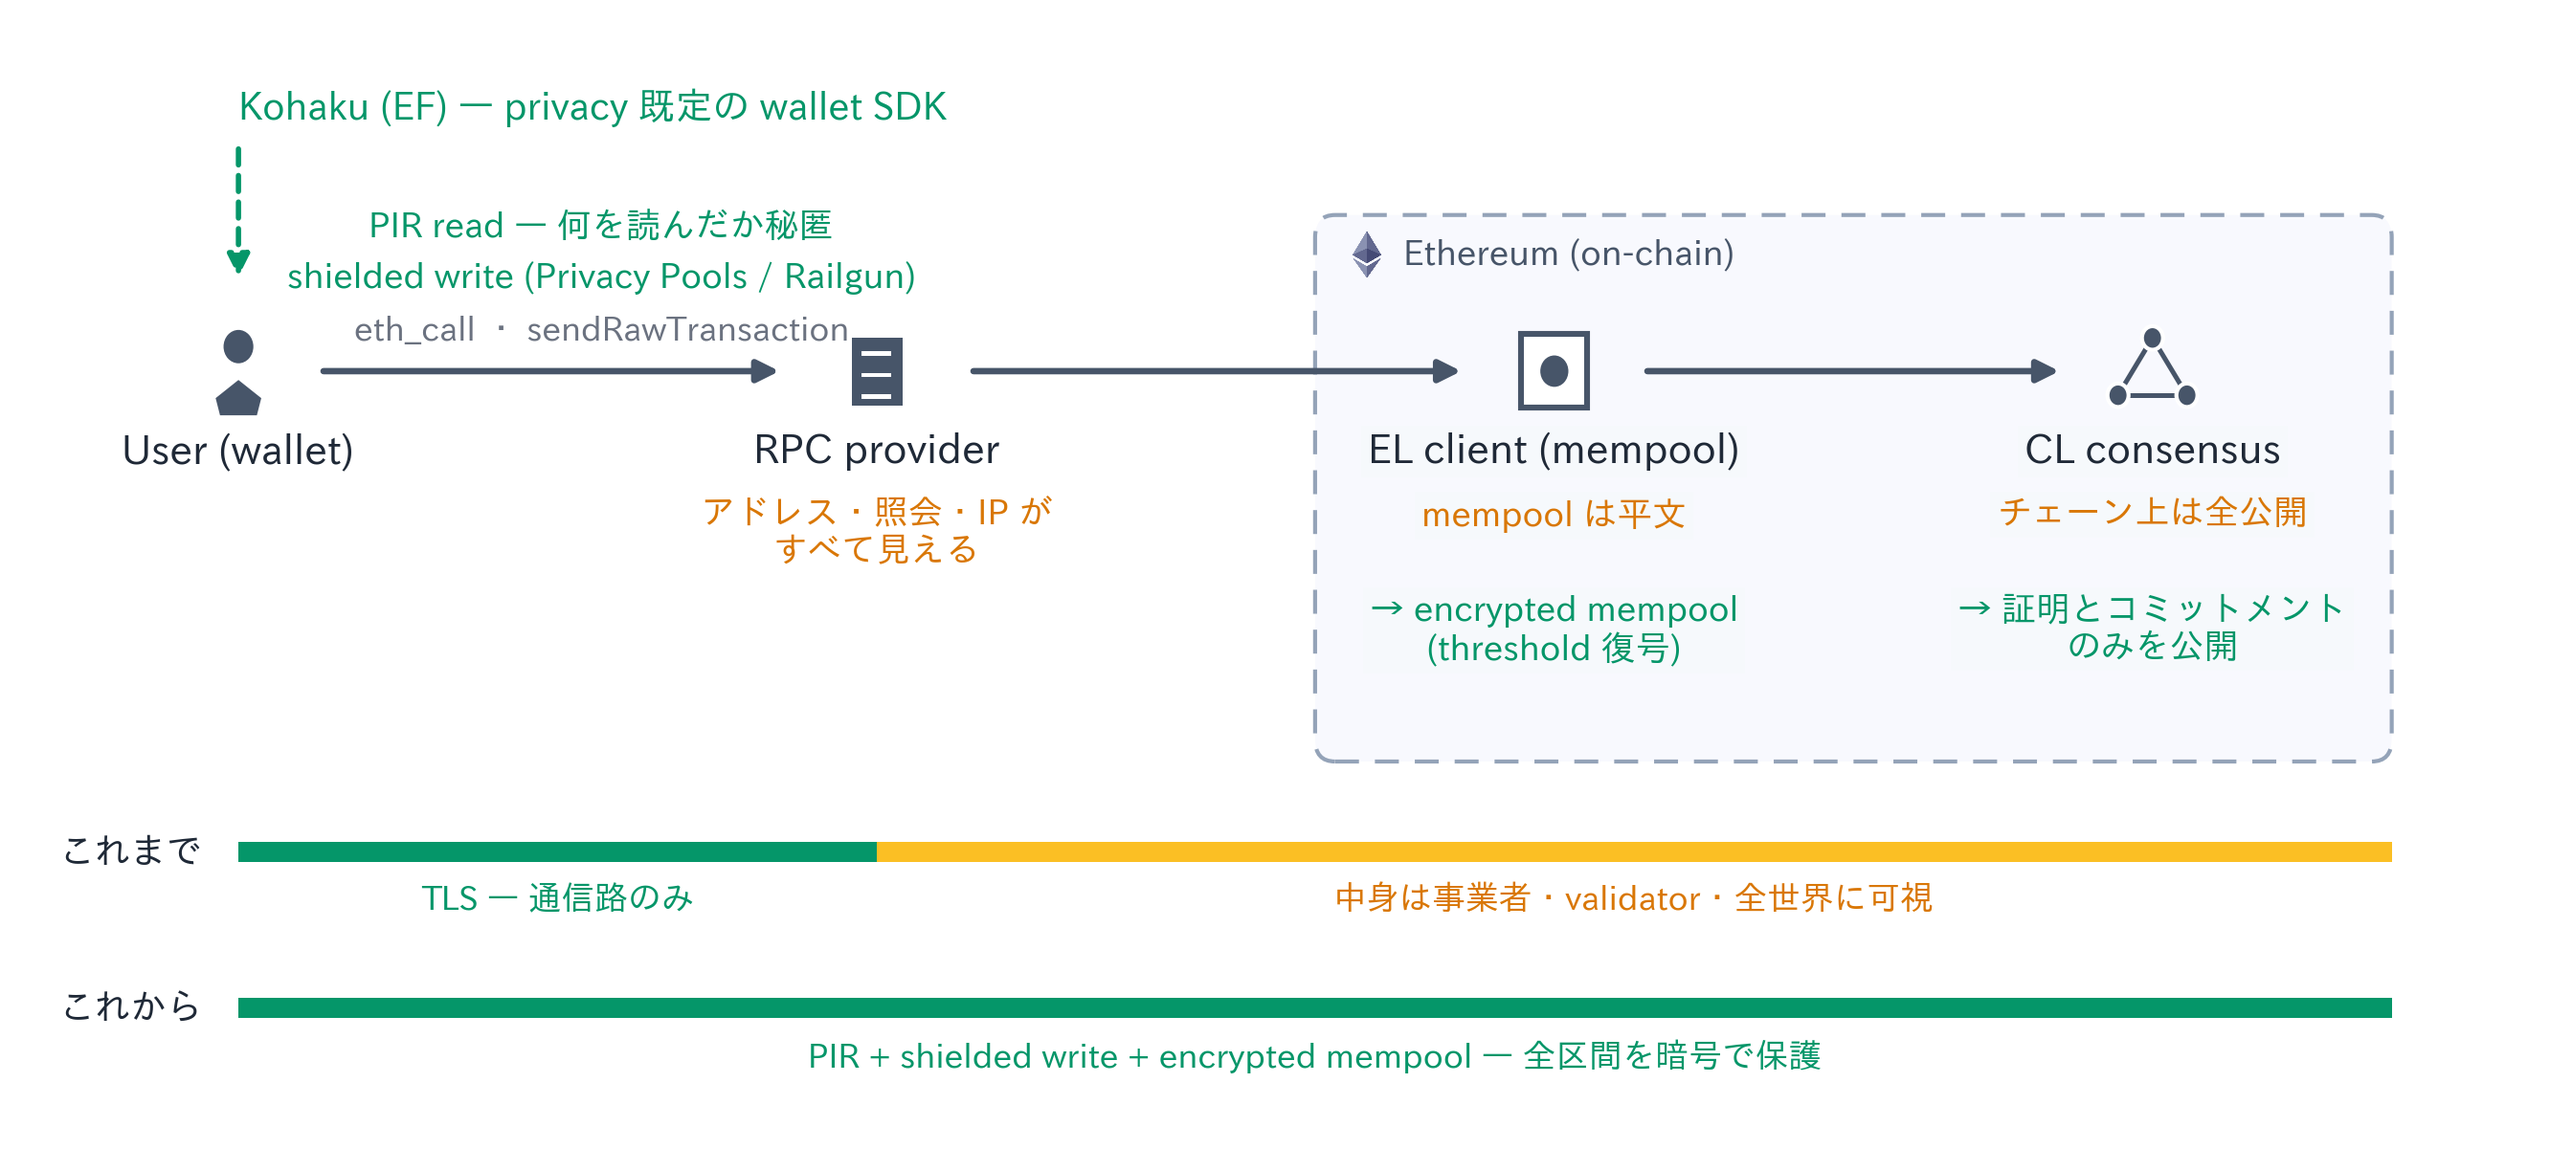
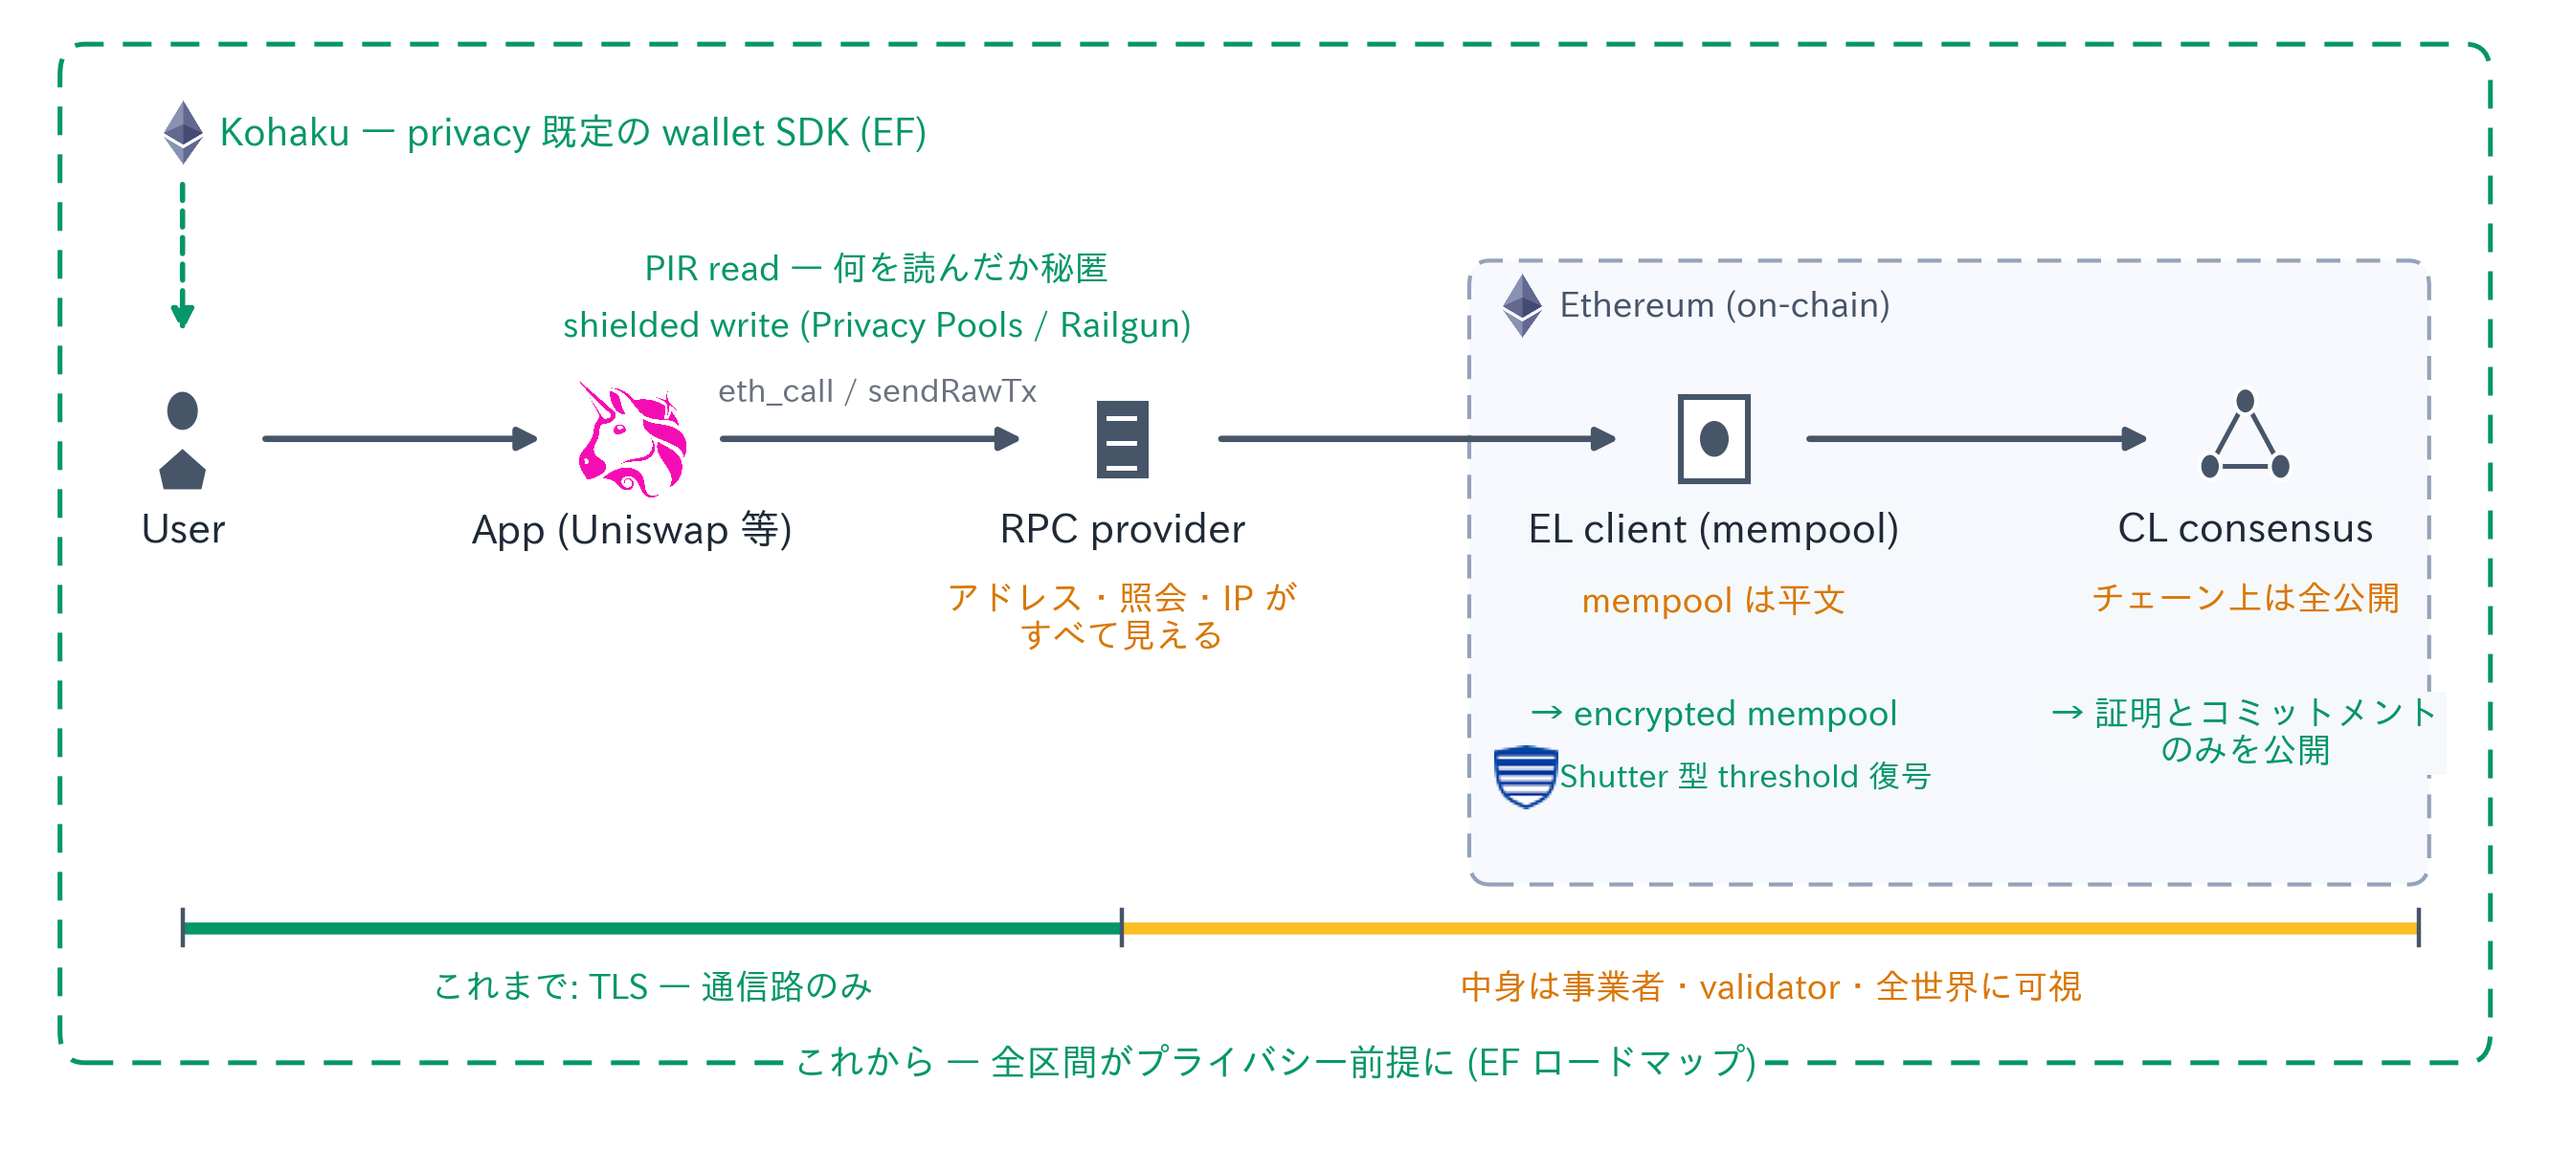
p9 (SL10d): App (Uniswap) アクター追加、バーを図内スコープ線 + 全体境界に置換、Kohaku (EF)・Shutter ロゴを配置

diff --git a/figures/eth_privacy.py b/figures/eth_privacy.py
@@ -5,9 +5,11 @@
 #
 # 設計語彙は .claude/skills/arch-diagram/SKILL.md + figures/kelp_arch.py に従う:
 #   枠なし (アイコン+ラベルのみ) / 直角配線・塗り矢印 / 境界バンド = on-chain 領域 /
-#   amber = 現状の露出 (可視) / green = これから足す防御 (Kohaku・PIR・shielded write・
-#   encrypted mempool) — p4→p6 と同じ「基底 + 差分」の読み方。
-#   下部の 2 本のバー = 保護範囲 (これまで: TLS 区間のみ / これから: 全区間)。
+#   amber = 現状の露出 (可視) / green = これから足す防御。
+#   保護範囲はバーではなく図内で直接可視化する:
+#     - 図中のスコープ線: green (TLS 区間 = これまで) → amber (可視のまま) の 1 本線
+#     - 図全体を囲う green 破線境界 = これから (全区間がプライバシー前提)
+#   actor: User → App (Uniswap 等) → RPC → EL → CL。Kohaku / Shutter はロゴ付き。
 
 import matplotlib
 matplotlib.use("Agg")
@@ -31,7 +33,6 @@ SURFACE = "#ffffff"
 GRAY = "#475569"
 GHOST_EDGE = "#94a3b8"
 AMBER = "#d97706"
-AMBER_SOFT = "#fbbf24"
 GREEN = "#059669"
 TEXT_PRIMARY = "#1f2937"
 TEXT_MUTED = "#6b7280"
@@ -39,8 +40,8 @@ TEXT_MUTED = "#6b7280"
 fig, ax = plt.subplots(figsize=(13.4, 6.2), dpi=200)
 fig.patch.set_facecolor(SURFACE)
 ax.set_facecolor(SURFACE)
-ax.set_xlim(0, 1260)
-ax.set_ylim(70, 578)
+ax.set_xlim(20, 1250)
+ax.set_ylim(140, 585)
 ax.axis("off")
 
 # ---------------------------------------------------------------- icon library
@@ -62,7 +63,6 @@ def icon_mini_server(cx, cy, s=22, color=GRAY):
 
 
 def icon_block(cx, cy, s=22, color=GRAY):
-    """EL client (実行エンジン): ブロック型。"""
     w = s * 1.5
     ax.add_patch(Rectangle((cx - w / 2, cy - w / 2), w, w, facecolor="white",
                             edgecolor=color, linewidth=2.2, zorder=8))
@@ -70,7 +70,6 @@ def icon_block(cx, cy, s=22, color=GRAY):
 
 
 def icon_network(cx, cy, s=22, color=GRAY):
-    """CL consensus (ノード網): 三角メッシュ。"""
     pts = [(cx, cy + s * 0.62), (cx - s * 0.72, cy - s * 0.45), (cx + s * 0.72, cy - s * 0.45)]
     for i in range(3):
         for j in range(i + 1, 3):
@@ -81,14 +80,14 @@ def icon_network(cx, cy, s=22, color=GRAY):
                             linewidth=1.5, zorder=8))
 
 
-def add_logo(path, xy, zoom, box_alignment=(0.5, 0.5)):
+def add_logo(path, xy, target_h=30.0, box_alignment=(0.5, 0.5)):
     img = mpimg.imread(path)
-    imagebox = OffsetImage(img, zoom=zoom)
-    ab = AnnotationBbox(imagebox, xy, frameon=False, zorder=9, box_alignment=box_alignment)
+    zoom = target_h / img.shape[0]
+    ab = AnnotationBbox(OffsetImage(img, zoom=zoom), xy, frameon=False, zorder=9,
+                        box_alignment=box_alignment)
     ax.add_artist(ab)
 
 
-# ---------------------------------------------------------------- primitives
 def entity(cx, cy, icon_fn, label, fontsize=15, gap=36, on_line=False, on_line_fc="white"):
     icon_fn(cx, cy)
     bbox = dict(facecolor=on_line_fc, edgecolor="none", pad=2.5) if on_line else None
@@ -103,27 +102,39 @@ def straight(p1, p2, color=GRAY, lw=2.4, ls="solid", z=4):
 
 
 # ===================================================================== 座標定数
-MAIN_Y = 420          # メインフロー行 (User → RPC → EL → CL)
-X_USER, X_RPC, X_EL, X_CL = 110, 430, 770, 1070
-BAND_FC = "#f6f9fc"   # on-chain バンド (#6366f1 α.04 相当) の合成地色
+MAIN_Y = 420
+X_USER, X_APP, X_RPC, X_EL, X_CL = 100, 320, 560, 850, 1110
+BAND_FC = "#f6f9fc"
+
+# ===================================================================== これから境界 (図全体)
+ax.add_patch(FancyBboxPatch((40, 175), 1190, 400,
+                             boxstyle="round,pad=0,rounding_size=12",
+                             linewidth=1.8, edgecolor=GREEN,
+                             facecolor="none", linestyle=(0, (6, 4)), zorder=1))
+ax.text(635, 175, "これから — 全区間がプライバシー前提に (EF ロードマップ)", ha="center",
+        va="center", fontsize=13.5, fontweight="bold", color=GREEN, zorder=12,
+        bbox=dict(facecolor="white", edgecolor="none", pad=3))
 
 # ===================================================================== on-chain バンド
-ax.add_patch(FancyBboxPatch((650, 245), 540, 245,
+ax.add_patch(FancyBboxPatch((730, 245), 470, 245,
                              boxstyle="round,pad=0,rounding_size=10",
                              linewidth=1.5, edgecolor=GHOST_EDGE,
                              facecolor="#6366f1", alpha=0.04, linestyle=(0, (6, 4)),
                              zorder=1))
-ax.add_patch(FancyBboxPatch((650, 245), 540, 245,
+ax.add_patch(FancyBboxPatch((730, 245), 470, 245,
                              boxstyle="round,pad=0,rounding_size=10",
                              linewidth=1.5, edgecolor=GHOST_EDGE,
                              facecolor="none", linestyle=(0, (6, 4)), zorder=1))
-add_logo(f"{LOGO_DIR}/ethereum.png", (676, 472), zoom=0.075)
-ax.text(694, 472, "Ethereum (on-chain)", ha="left", va="center", fontsize=13,
+add_logo(f"{LOGO_DIR}/ethereum.png", (756, 472), target_h=26)
+ax.text(774, 472, "Ethereum (on-chain)", ha="left", va="center", fontsize=13,
         fontweight="bold", color=GRAY, zorder=2)
 
 # ===================================================================== メインフロー
-entity(X_USER, MAIN_Y, lambda cx, cy: icon_person(cx, cy, s=22), "User (wallet)")
-straight((150, MAIN_Y), (X_RPC - 46, MAIN_Y), lw=2.4)
+entity(X_USER, MAIN_Y, lambda cx, cy: icon_person(cx, cy, s=22), "User")
+straight((138, MAIN_Y), (X_APP - 42, MAIN_Y), lw=2.4)
+entity(X_APP, MAIN_Y, lambda cx, cy: add_logo(f"{LOGO_DIR}/uniswap.png", (cx, cy), target_h=44),
+       "App (Uniswap 等)")
+straight((X_APP + 42, MAIN_Y), (X_RPC - 46, MAIN_Y), lw=2.4)
 entity(X_RPC, MAIN_Y, lambda cx, cy: icon_mini_server(cx, cy, s=22), "RPC provider")
 straight((X_RPC + 46, MAIN_Y), (X_EL - 44, MAIN_Y), lw=2.4)
 entity(X_EL, MAIN_Y, lambda cx, cy: icon_block(cx, cy, s=22), "EL client (mempool)",
@@ -132,12 +143,12 @@ straight((X_EL + 44, MAIN_Y), (X_CL - 44, MAIN_Y), lw=2.4)
 entity(X_CL, MAIN_Y, lambda cx, cy: icon_network(cx, cy, s=24), "CL consensus",
        on_line=True, on_line_fc=BAND_FC)
 
-# 配線ラベル: 線の上に 3 段 (gray = 何が流れるか / green = これから足す防御)
-ax.text(292, MAIN_Y + 18, "eth_call ・ sendRawTransaction", ha="center", va="center",
-        fontsize=12.5, fontweight="bold", color=TEXT_MUTED, zorder=6)
-ax.text(292, MAIN_Y + 42, "shielded write (Privacy Pools / Railgun)", ha="center", va="center",
+# 配線ラベル (App→RPC): gray = 何が流れるか / green = これから足す防御
+ax.text(440, MAIN_Y + 18, "eth_call / sendRawTx", ha="center", va="center",
+        fontsize=12, fontweight="bold", color=TEXT_MUTED, zorder=6)
+ax.text(440, MAIN_Y + 44, "shielded write (Privacy Pools / Railgun)", ha="center", va="center",
         fontsize=13, fontweight="bold", color=GREEN, zorder=6)
-ax.text(292, MAIN_Y + 64, "PIR read — 何を読んだか秘匿", ha="center", va="center",
+ax.text(440, MAIN_Y + 66, "PIR read — 何を読んだか秘匿", ha="center", va="center",
         fontsize=13, fontweight="bold", color=GREEN, zorder=6)
 
 # ===================================================================== amber = 現状の露出
@@ -150,41 +161,38 @@ ax.text(X_CL, MAIN_Y - 57, "チェーン上は全公開", ha="center", va="top",
         fontsize=13, fontweight="bold", color=AMBER, zorder=6, bbox=dict(
             facecolor=BAND_FC, edgecolor="none", pad=2.5))
 
-# ===================================================================== green = 足す防御 (差分)
-# Kohaku callout — kelp の setConfig callout と同じ形式 (プレーン 1 行 + 垂直 leader)
-CALLOUT_Y = 538
-ax.text(X_USER, CALLOUT_Y, "Kohaku (EF) — privacy 既定の wallet SDK", ha="left", va="center",
+# ===================================================================== green = 足す防御
+# Kohaku callout (EF プロジェクトなので EF/Ethereum マーク付き)
+CALLOUT_Y = 540
+add_logo(f"{LOGO_DIR}/ethereum.png", (100, CALLOUT_Y), target_h=26)
+ax.text(118, CALLOUT_Y, "Kohaku — privacy 既定の wallet SDK (EF)", ha="left", va="center",
         fontsize=14, fontweight="bold", color=GREEN, zorder=11)
-straight((X_USER, CALLOUT_Y - 16), (X_USER, MAIN_Y + 40), color=GREEN, lw=2.0,
+straight((100, CALLOUT_Y - 18), (100, MAIN_Y + 40), color=GREEN, lw=2.0,
          ls=(0, (3, 2)), z=5)
 
-ax.text(X_EL, MAIN_Y - 100, "→ encrypted mempool\n(threshold 復号)", ha="center", va="top",
+ax.text(X_EL, MAIN_Y - 102, "→ encrypted mempool", ha="center", va="top",
         fontsize=13, fontweight="bold", color=GREEN, zorder=6, bbox=dict(
             facecolor=BAND_FC, edgecolor="none", pad=2.5))
-ax.text(X_CL, MAIN_Y - 100, "→ 証明とコミットメント\nのみを公開", ha="center", va="top",
+add_logo(f"{LOGO_DIR}/shutter.png", (X_EL - 92, MAIN_Y - 133), target_h=24)
+ax.text(X_EL - 76, MAIN_Y - 133, "Shutter 型 threshold 復号", ha="left", va="center",
+        fontsize=12, fontweight="bold", color=GREEN, zorder=6, bbox=dict(
+            facecolor=BAND_FC, edgecolor="none", pad=2))
+ax.text(X_CL, MAIN_Y - 102, "→ 証明とコミットメント\nのみを公開", ha="center", va="top",
         fontsize=13, fontweight="bold", color=GREEN, zorder=6, bbox=dict(
             facecolor=BAND_FC, edgecolor="none", pad=2.5))
 
-# ===================================================================== 保護範囲バー (下部)
-BAR_X0, BAR_X1 = X_USER, 1190
-
-def coverage_bar(y, row_label, segments, labels):
-    ax.text(BAR_X0 - 18, y + 4, row_label, ha="right", va="center", fontsize=13.5,
-            fontweight="bold", color=TEXT_PRIMARY, zorder=6)
-    for x1, x2, c in segments:
-        ax.add_patch(Rectangle((x1, y), x2 - x1, 9, facecolor=c, edgecolor="none", zorder=5))
-    for x, text, c in labels:
-        ax.text(x, y - 17, text, ha="center", va="center", fontsize=12.5,
-                fontweight="bold", color=c, zorder=6)
-
-coverage_bar(200, "これまで",
-             [(BAR_X0, X_RPC, GREEN), (X_RPC, BAR_X1, AMBER_SOFT)],
-             [((BAR_X0 + X_RPC) / 2, "TLS — 通信路のみ", GREEN),
-              ((X_RPC + BAR_X1) / 2, "中身は事業者・validator・全世界に可視", AMBER)])
-
-coverage_bar(130, "これから",
-             [(BAR_X0, BAR_X1, GREEN)],
-             [((BAR_X0 + BAR_X1) / 2, "PIR + shielded write + encrypted mempool — 全区間を暗号で保護", GREEN)])
+# ===================================================================== スコープ線 (これまで)
+SCOPE_Y = 228
+ax.plot([X_USER, X_RPC], [SCOPE_Y, SCOPE_Y], color=GREEN, linewidth=4.5,
+        solid_capstyle="butt", zorder=5)
+ax.plot([X_RPC, 1195], [SCOPE_Y, SCOPE_Y], color="#fbbf24", linewidth=4.5,
+        solid_capstyle="butt", zorder=5)
+for x in (X_USER, X_RPC, 1195):
+    ax.plot([x, x], [SCOPE_Y - 7, SCOPE_Y + 7], color=GRAY, linewidth=1.6, zorder=6)
+ax.text((X_USER + X_RPC) / 2, SCOPE_Y - 24, "これまで: TLS — 通信路のみ", ha="center",
+        va="center", fontsize=13, fontweight="bold", color=GREEN, zorder=6)
+ax.text((X_RPC + 1195) / 2, SCOPE_Y - 24, "中身は事業者・validator・全世界に可視", ha="center",
+        va="center", fontsize=13, fontweight="bold", color=AMBER, zorder=6)
 
 plt.tight_layout(pad=1.0)
 plt.savefig(OUT, facecolor=SURFACE, bbox_inches="tight")

diff --git a/slides/SL10d.md b/slides/SL10d.md
@@ -16,19 +16,20 @@ Sources: Buterin "A maximally simple L1 privacy roadmap" ethereum-magicians (Apr
 Speaker Notes:
 
 【概要 (需要 ③)】
-Ethereum 側のもう一つの需要: プライバシー領域の拡大。tx の一生 (wallet → RPC → EL の mempool → CL consensus) をアーキテクチャで描くと、「暗号がどこを守っていたか」が一目で分かる — これまでは User↔RPC の通信路 (TLS) だけ。これからは EF のロードマップ自体が経路全体のプライバシーを前提にしている。
+Ethereum 側のもう一つの需要: プライバシー領域の拡大。tx の一生 (User → App (Uniswap 等の dApp frontend) → RPC → EL の mempool → CL consensus) をアーキテクチャで描くと、「暗号がどこを守っていたか」が一目で分かる。図の下のスコープ線: 緑 = これまで守られていた区間 (TLS、通信路のみ)、黄 = 中身が可視のままの区間。図全体を囲う緑の破線境界 = これから (EF ロードマップは経路全体のプライバシーを前提にしている)。
 
-【上段 (これまで) の読み方 — 事実の裏付け】
-- User→RPC の緑の線 = TLS。守られているのは「通信の中身を第三者が盗聴できない」ことだけ。
+【図の読み方 — 事実の裏付け】
+- App (Uniswap 等): ユーザは通常 dApp のフロントエンド経由でチェーンに触る。フロントと RPC のどちらにもアドレス・照会内容が見える。
+- スコープ線の緑 = TLS。守られているのは「通信の中身を第三者が盗聴できない」ことだけ。
 - RPC provider には全部見える: PSE の PIR 研究ノート (2025/6) の一次記述 — eth_getBalance / eth_call / eth_getStorageAt は「照会アドレス・照会のタイミングと頻度・IP とデバイス指紋」を露出し、「RPC endpoint はユーザをプロファイルし deanonymize しうる」。ConsenSys は 2022/11 にプライバシーポリシーで「MetaMask がデフォルト RPC (Infura) を使う場合、IP アドレスと wallet アドレスを収集する」と自認した (収集点が RPC provider であることを事業者自身が認めた事件)。
 - EL の mempool は平文で validator に可視 (front-running / censorship の温床)。チェーン上は全公開。
-- 下のバー: 緑 (暗号化) は最初の区間だけで、残りは黄色 (可視) — 「どこからどこまで」の答え。
+- 下のスコープ線: 緑 (暗号化) は最初の区間だけで、残りは黄色 (可視) — 「どこからどこまで」の答え。
 
-【下段 (これから) の読み方 — すべて実在のプロジェクト】
+【green の差分 (これから) — すべて実在のプロジェクト】
 - Kohaku: EF の privacy-first wallet SDK / リファレンス実装 (2025/10/8 の EF ブログ「Commitment to Privacy」で Privacy Cluster とともに公表、Devconnect ARG 2025/11 で Vitalik がデモ)。Railgun / Privacy Pools 統合、provider 抽象化、post-quantum ERC-4337 account を含む。
 - PIR read: 「どのデータを読んだかをサーバに明かさず取得する」暗号技術。Vitalik の L1 privacy roadmap (2025/4) は読み取りプライバシーを「短期は TEE、長期は PIR に置換」と明記。PSE (2025/9 に Privacy Stewards of Ethereum へ改名) の 3 トラックの 1 つが Private Reads。引用スキーム: Spiral / Respire / TreePIR。
 - shielded write: Privacy Pools / Railgun をウォレットに統合し、送金をデフォルトで shielded に (Vitalik roadmap の第 1 項目)。
-- encrypted mempool: threshold 暗号で tx を包み、ブロック取り込みまで validator にも中身が見えない。Shutter Network の「shutterized」mempool が Gnosis Chain でメインネット稼働中 (Ethereum L1 へはロードマップ文書段階)。
+- encrypted mempool: threshold 暗号で tx を包み、ブロック取り込みまで validator にも中身が見えない。図のロゴは Shutter Network — 「shutterized」mempool が Gnosis Chain でメインネット稼働中 (Ethereum L1 へはロードマップ文書段階)。
 - CL / on-chain: 見えるのは証明とコミットメントだけ — 全公開の台帳からの転換。
 
 【需要としての意味 (聞き手に補完させる)】
